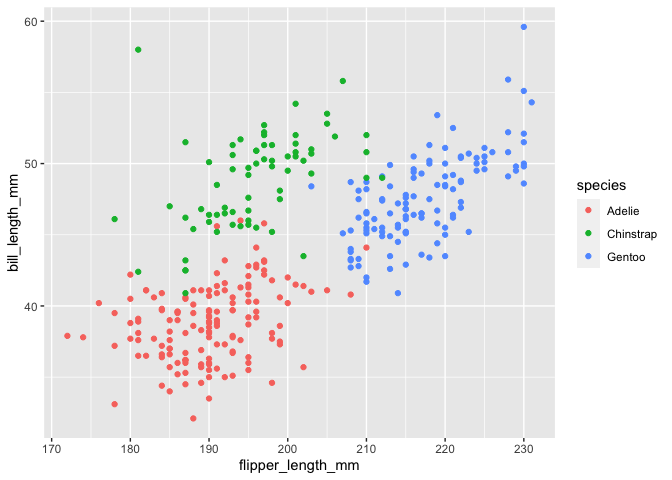
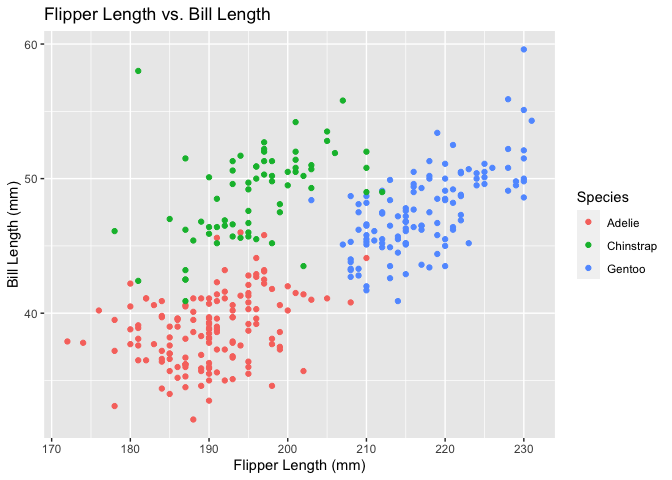
Added title, axis titles, and legend title to plot in Problem 1.

diff --git a/p8105_hw1_mwd2126.md b/p8105_hw1_mwd2126.md
@@ -7,8 +7,8 @@ This is an R Markdown document for Homework 1 of course P8105.
 
 # Problem 1
 
-First, ensure you have the “palmerpenguins” package installed. Then, we
-will load the `penguins` dataset:
+First, ensure you have the “palmerpenguins” package installed. Then,
+we’ll load the `penguins` dataset:
 
 ``` r
 data("penguins", package = "palmerpenguins")
@@ -21,23 +21,21 @@ sex, and year. The dataset contains 344 rows and 8 columns. The mean
 flipper length is 200.9 mm.
 
 Next, we’ll look at a scatter plot of flipper length vs bill length.
-First, we drop rows with missing data and then build our plot.
+First, we’ll drop rows with missing data and then build our plot.
 
 ``` r
 penguins %>% 
   drop_na() %>% 
   ggplot(aes(flipper_length_mm, bill_length_mm, color=species)) +
-  geom_point()
+  geom_point() + 
+  ggtitle("Flipper Length vs. Bill Length") + 
+  xlab("Flipper Length (mm)") + 
+  ylab("Bill Length (mm)") +
+  scale_colour_discrete("Species")
 ```
 
 ![](p8105_hw1_mwd2126_files/figure-gfm/build%20the%20plot-1.png)<!-- -->
 
-Lastly, we’ll export this scatter plot to our project directory.
-
-``` r
-ggsave("penguin_plot.jpg")
-```
-
-    ## Saving 7 x 5 in image
+Then, we’ll export this scatter plot to our project directory.
 
 # Problem 2
